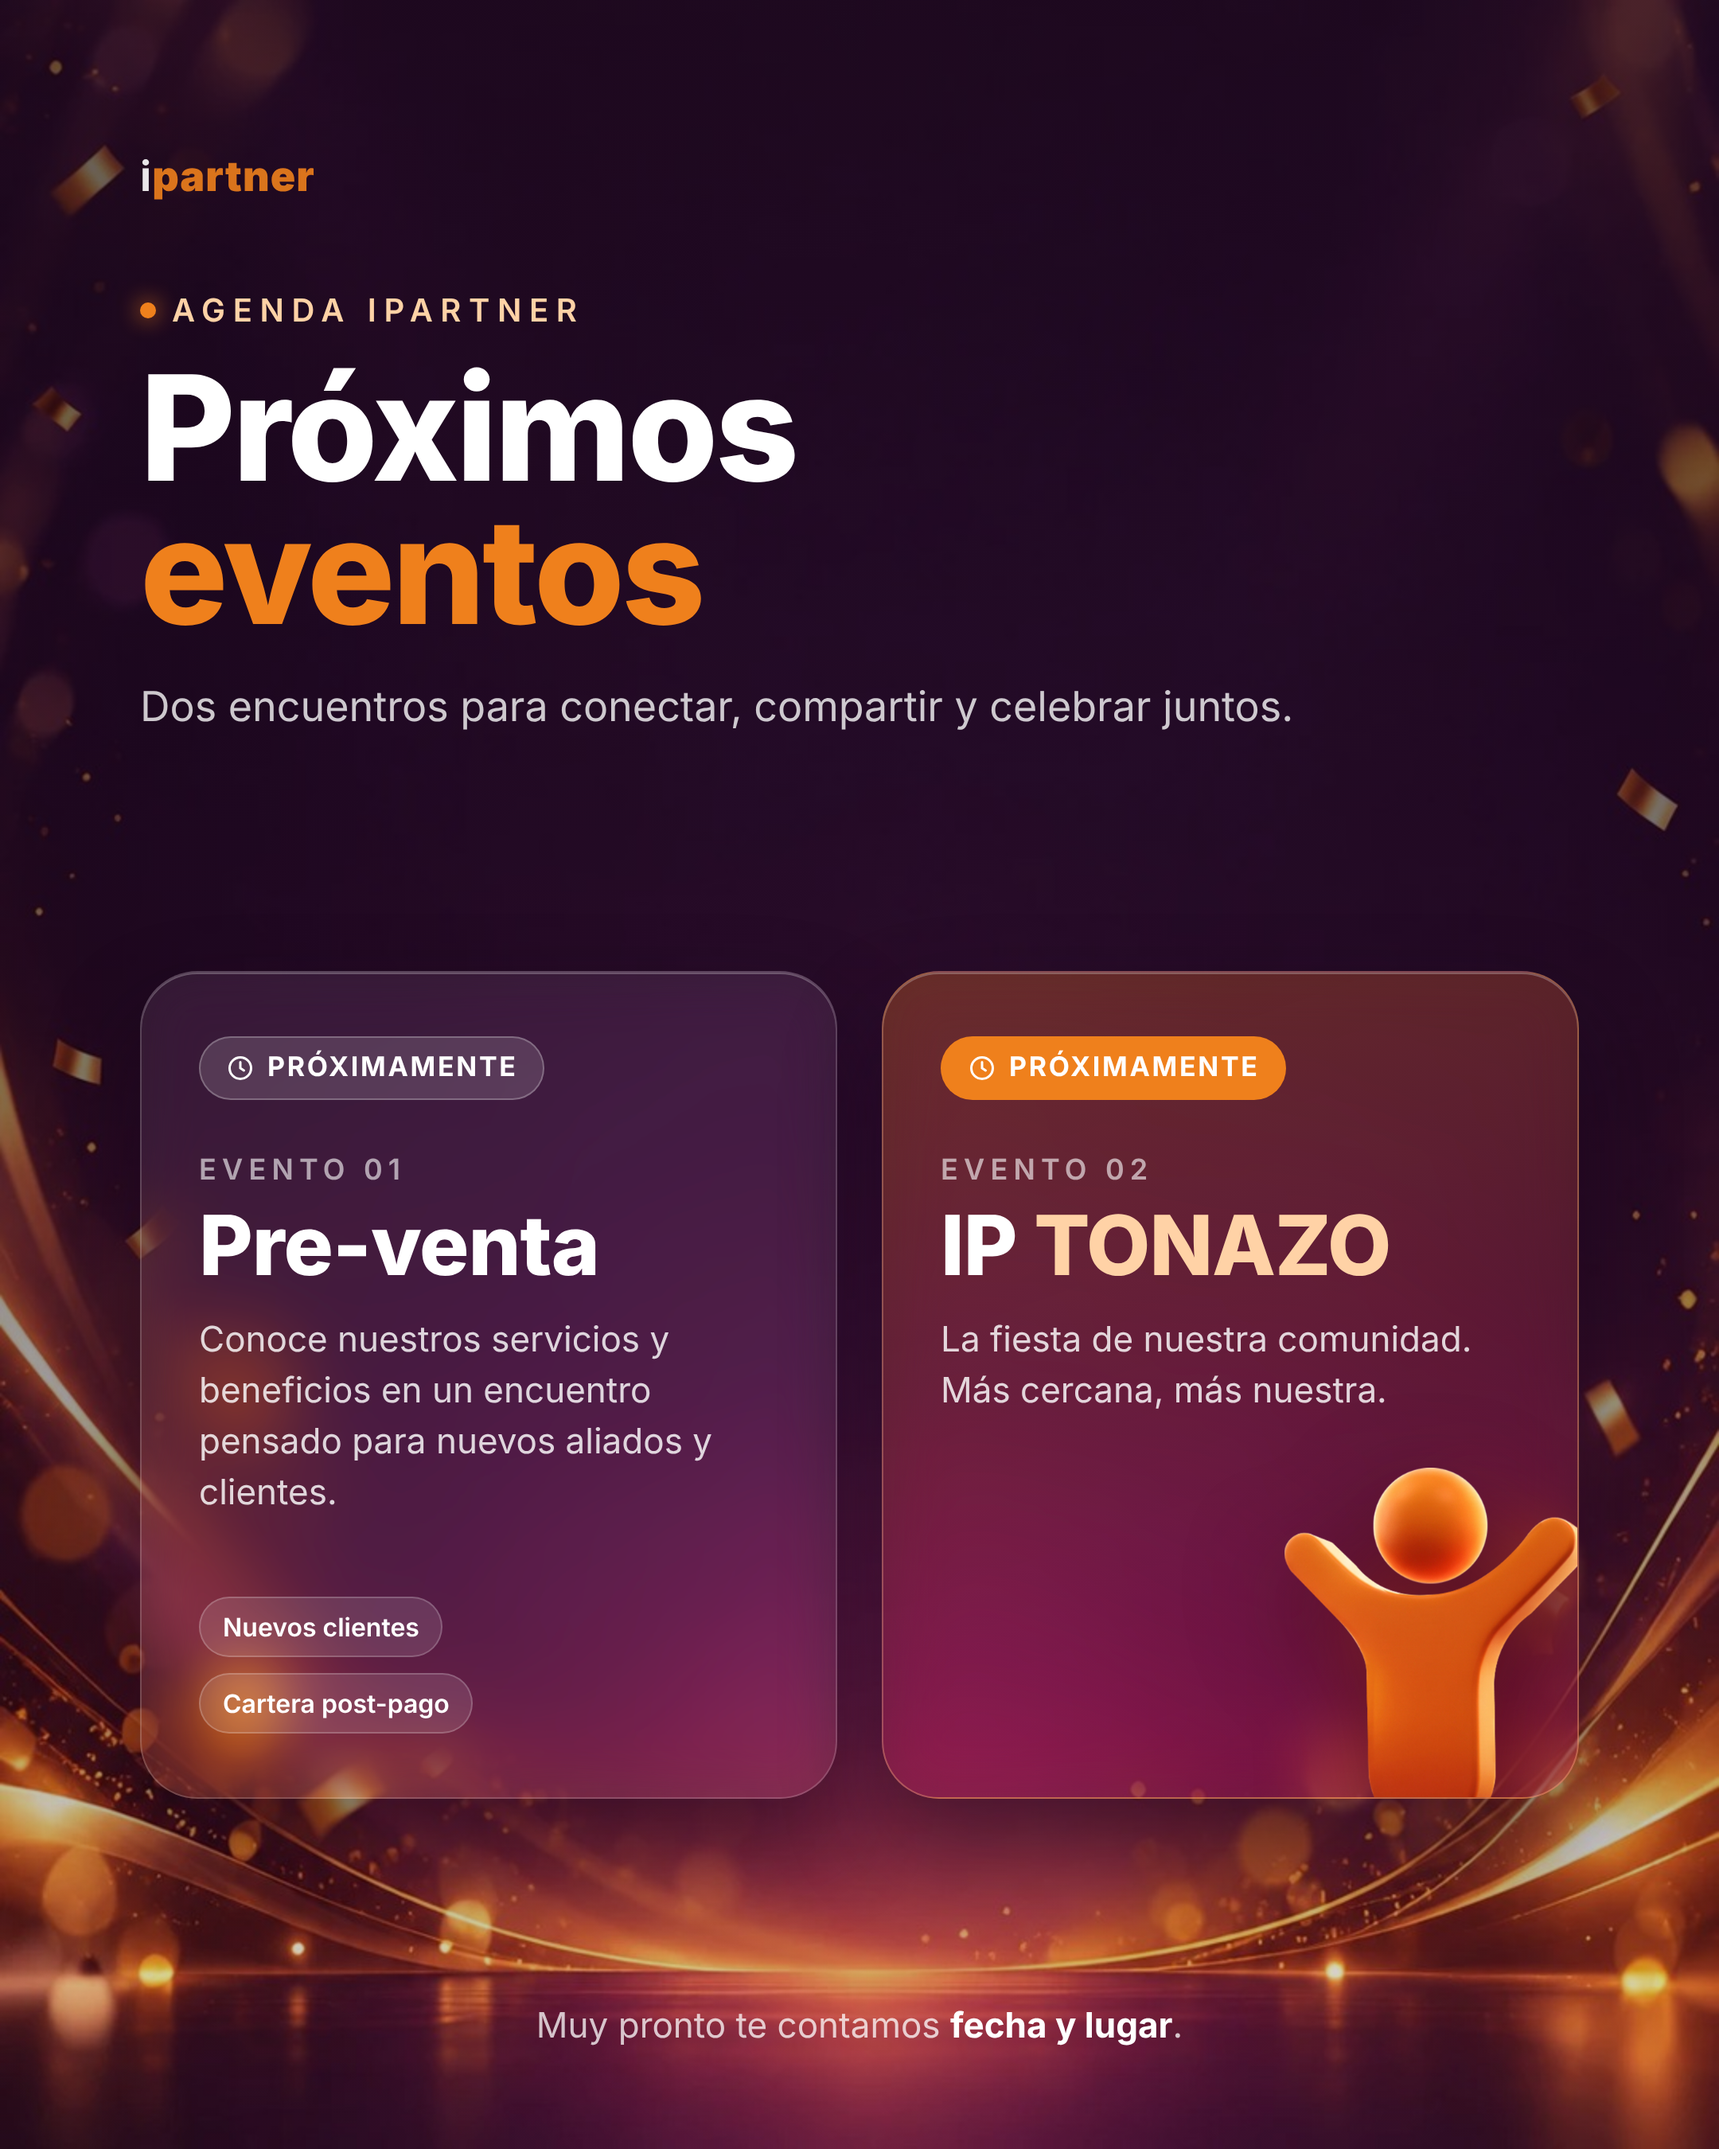
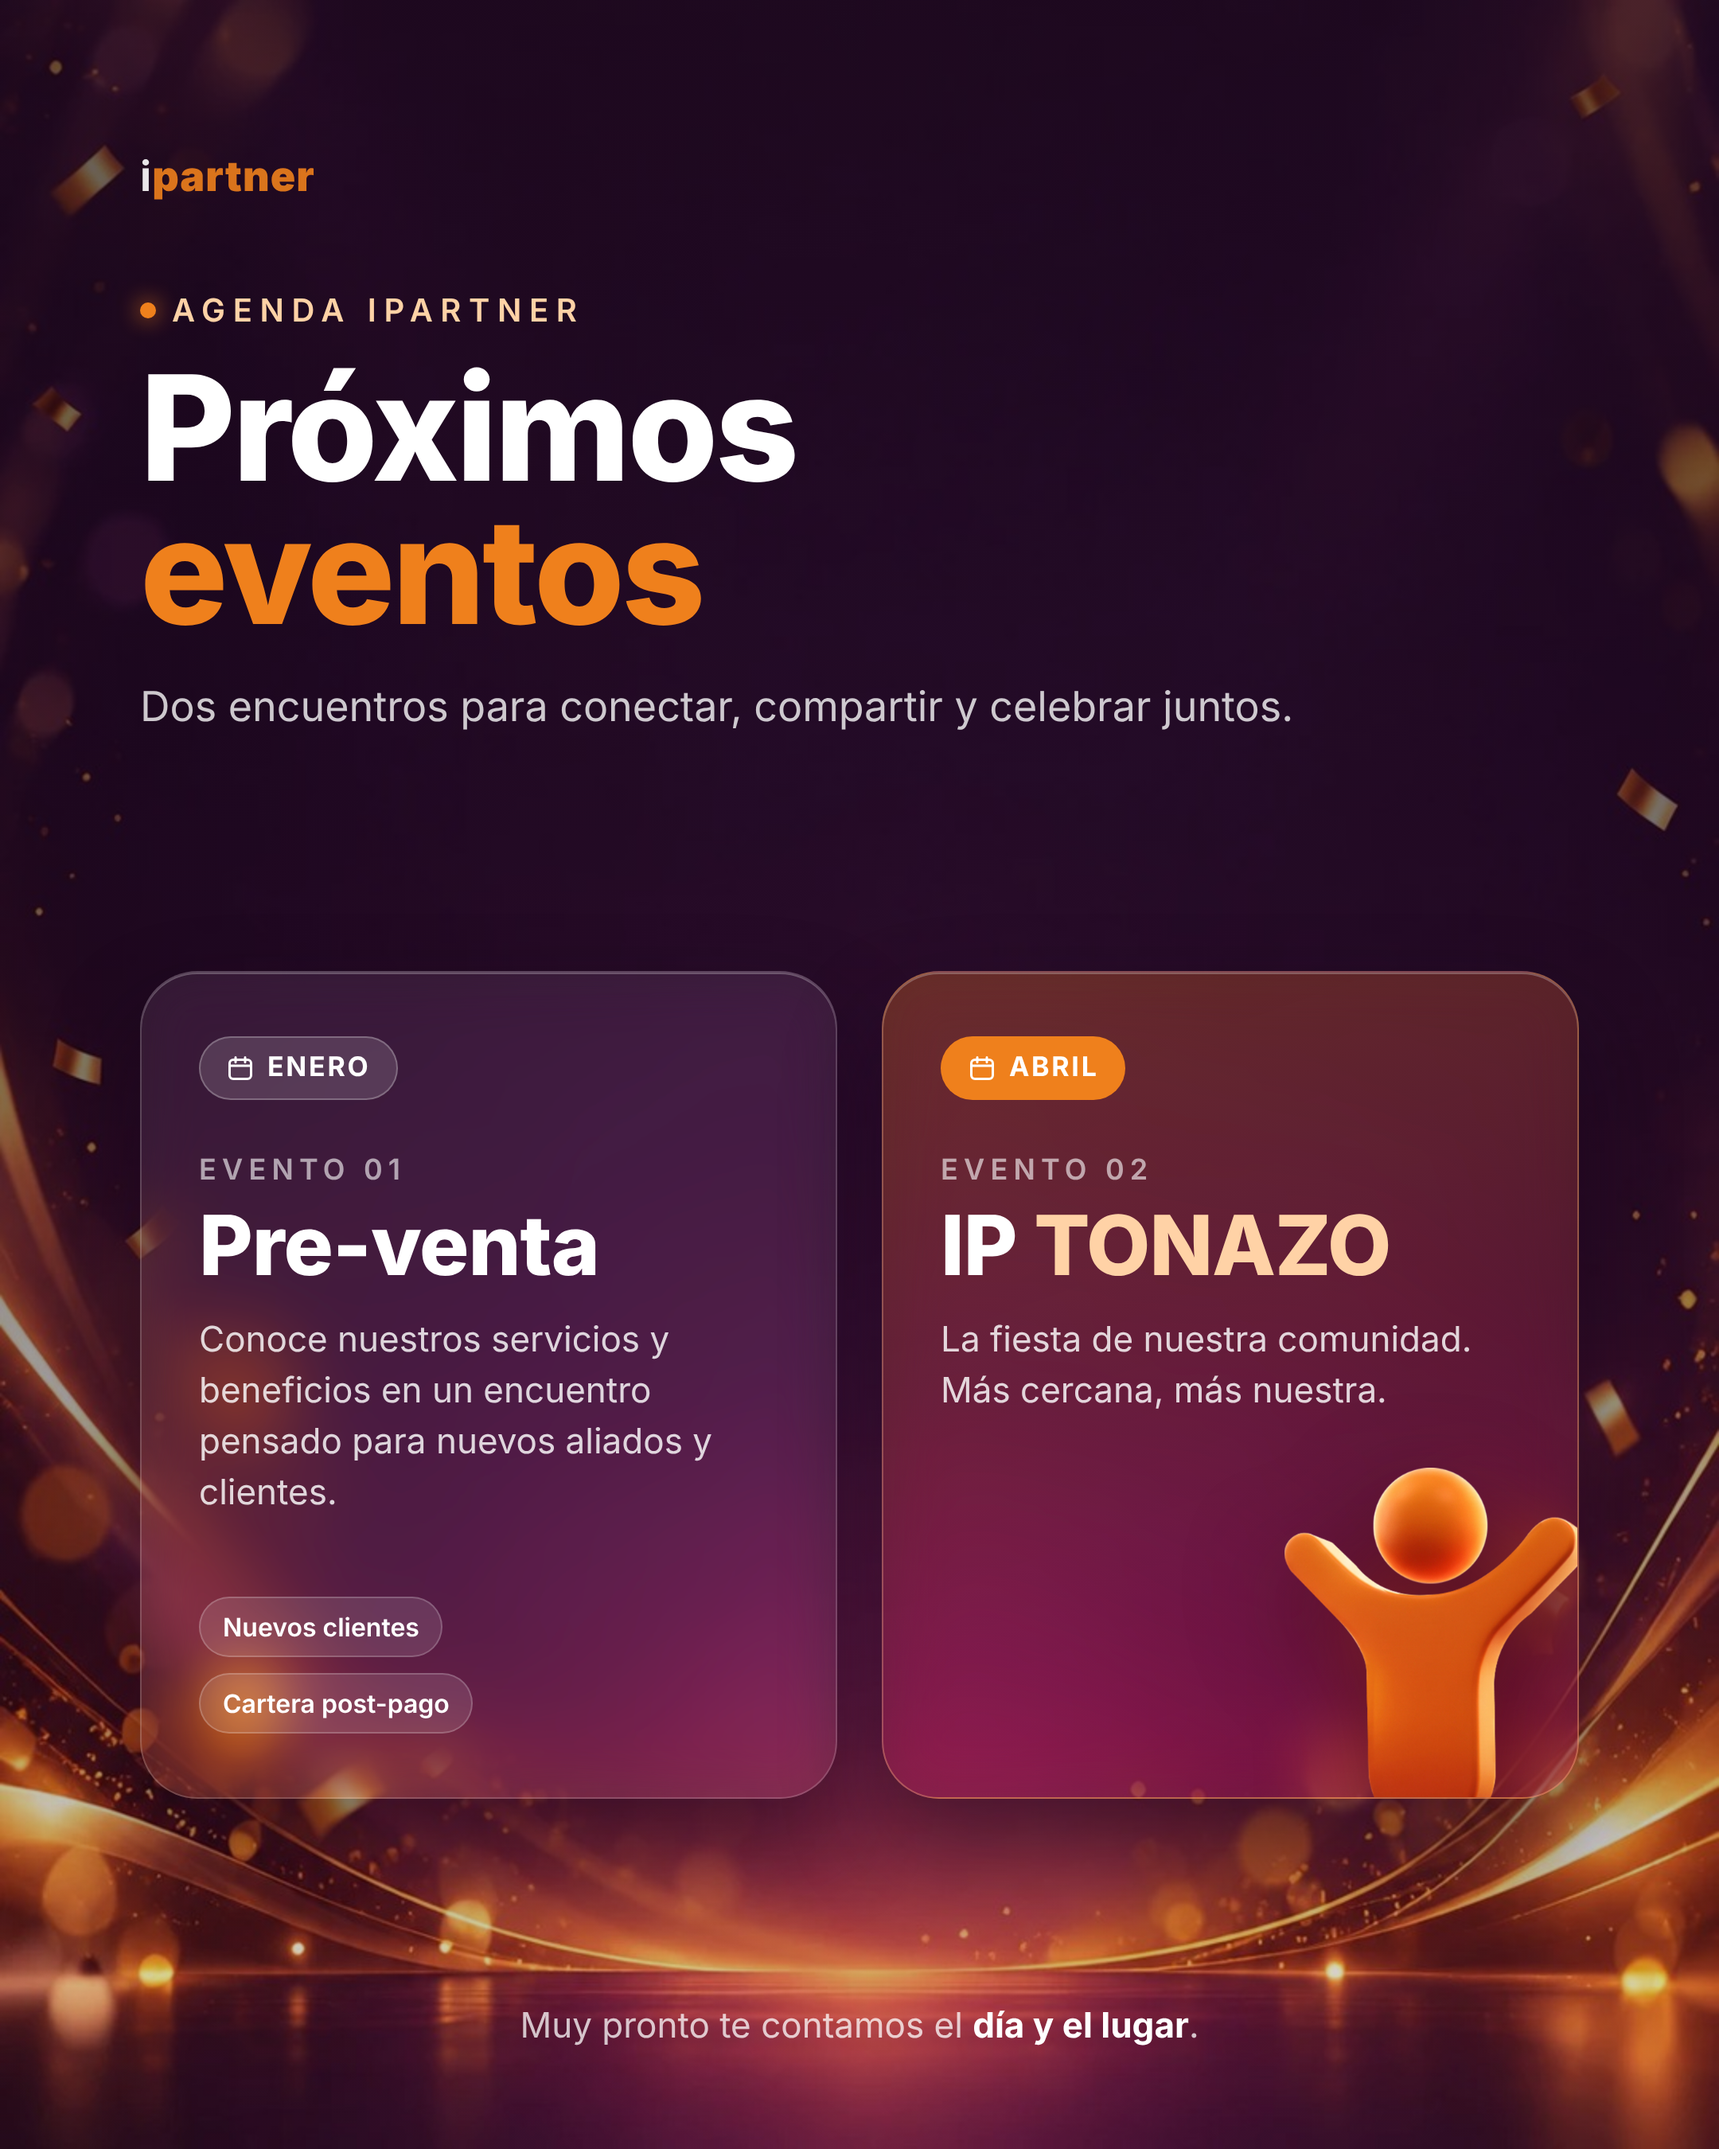
Flyer eventos: Pre-venta en enero e IP TONAZO en abril
Claude-Session: https://claude.ai/code/session_01KT8NTYu2Ge9wagQ7cc8Njn

Changed region(s): [[0.3102, 0.9333, 0.6824, 0.9644], [0.5894, 0.4667, 0.7444, 0.5289], [0.1861, 0.4667, 0.3102, 0.5289]]

diff --git a/eventos/flyer-eventos.html b/eventos/flyer-eventos.html
@@ -44,20 +44,20 @@ h2{margin-top:10px;font-size:52px;line-height:1.02;font-weight:800;letter-spacin
 
   <div class="tarjetas">
     <article class="card preventa">
-      <span class="tag"><svg viewBox="0 0 24 24" fill="none" stroke="currentColor" stroke-width="2" stroke-linecap="round"><circle cx="12" cy="12" r="9"/><path d="M12 7v5l3 2"/></svg>Próximamente</span>
+      <span class="tag"><svg viewBox="0 0 24 24" fill="none" stroke="currentColor" stroke-width="2" stroke-linecap="round"><rect x="3" y="5" width="18" height="16" rx="3"/><path d="M3 10h18M8 3v4M16 3v4"/></svg>Enero</span>
       <div class="num">Evento 01</div>
       <h2>Pre-venta</h2>
       <p class="desc">Conoce nuestros servicios y beneficios en un encuentro pensado para nuevos aliados y clientes.</p>
       <div class="chips"><span class="chip">Nuevos clientes</span><span class="chip">Cartera post-pago</span></div>
     </article>
     <article class="card tonazo">
-      <span class="tag"><svg viewBox="0 0 24 24" fill="none" stroke="currentColor" stroke-width="2" stroke-linecap="round"><circle cx="12" cy="12" r="9"/><path d="M12 7v5l3 2"/></svg>Próximamente</span>
+      <span class="tag"><svg viewBox="0 0 24 24" fill="none" stroke="currentColor" stroke-width="2" stroke-linecap="round"><rect x="3" y="5" width="18" height="16" rx="3"/><path d="M3 10h18M8 3v4M16 3v4"/></svg>Abril</span>
       <div class="num">Evento 02</div>
       <h2>IP <em>TONAZO</em></h2>
       <p class="desc">La fiesta de nuestra comunidad. Más cercana, más nuestra.</p>
       <img class="munieco" src="assets/munieco.png" alt="">
     </article>
   </div>
-  <div class="pie">Muy pronto te contamos <b>fecha y lugar</b>.</div>
+  <div class="pie">Muy pronto te contamos el <b>día y el lugar</b>.</div>
 </div>
 </body></html>
